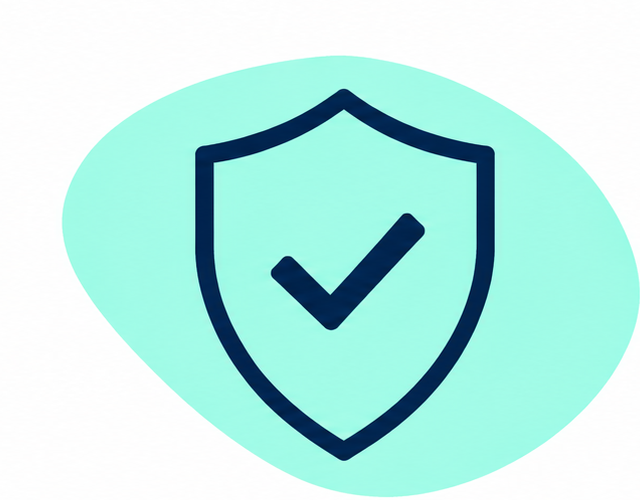
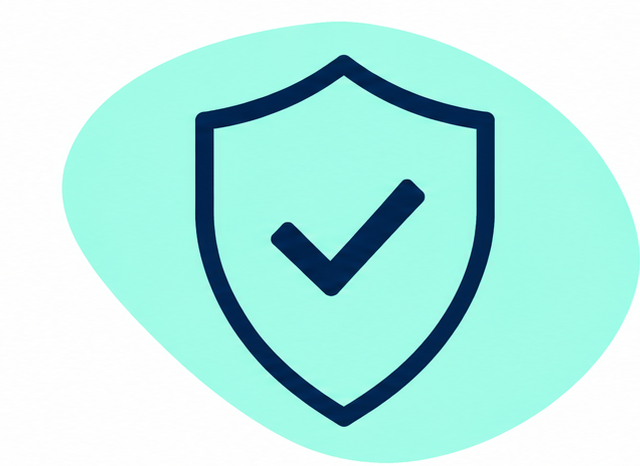
feat - Se agrego el style a la seccion proteccion con flexbox

diff --git a/styles/style.css b/styles/style.css
@@ -120,3 +120,62 @@ header {
     color: #ffffff;
     transform: translateY(-3px);
 }
+
+.proteccion {
+    width: 82%;
+    margin: 0 auto;
+    padding: 8% 0;
+    text-align: center;
+}
+
+.proteccion h2 {
+    font-size: 34px;
+    color: #404349;
+    margin-bottom: 2%;
+}
+
+.proteccion > p {
+    width: 60%;
+    margin: 0 auto 5%;
+    font-size: 17px;
+    line-height: 1.7;
+    color: #404349;
+}
+
+.proteccion-contenedor {
+    display: flex;
+    justify-content: space-between;
+    align-items: flex-start;
+    gap: 4%;
+}
+
+.proteccion-item {
+    width: 33%;
+    text-align: center;
+}
+
+.proteccion-imagen {
+    width: 50%;
+    margin: 0 auto 5%;
+    display: flex;
+    justify-content: center;
+    align-items: center;
+}
+
+.proteccion-imagen img {
+    width: 100%;
+    height: auto;
+    object-fit: contain;
+}
+
+.proteccion-item h3 {
+    font-size: 20px;
+    color: #404349;
+    margin-bottom: 5%;
+}
+
+.proteccion-item p {
+    font-size: 14px;
+    line-height: 1.7;
+    color: #404349;
+}
